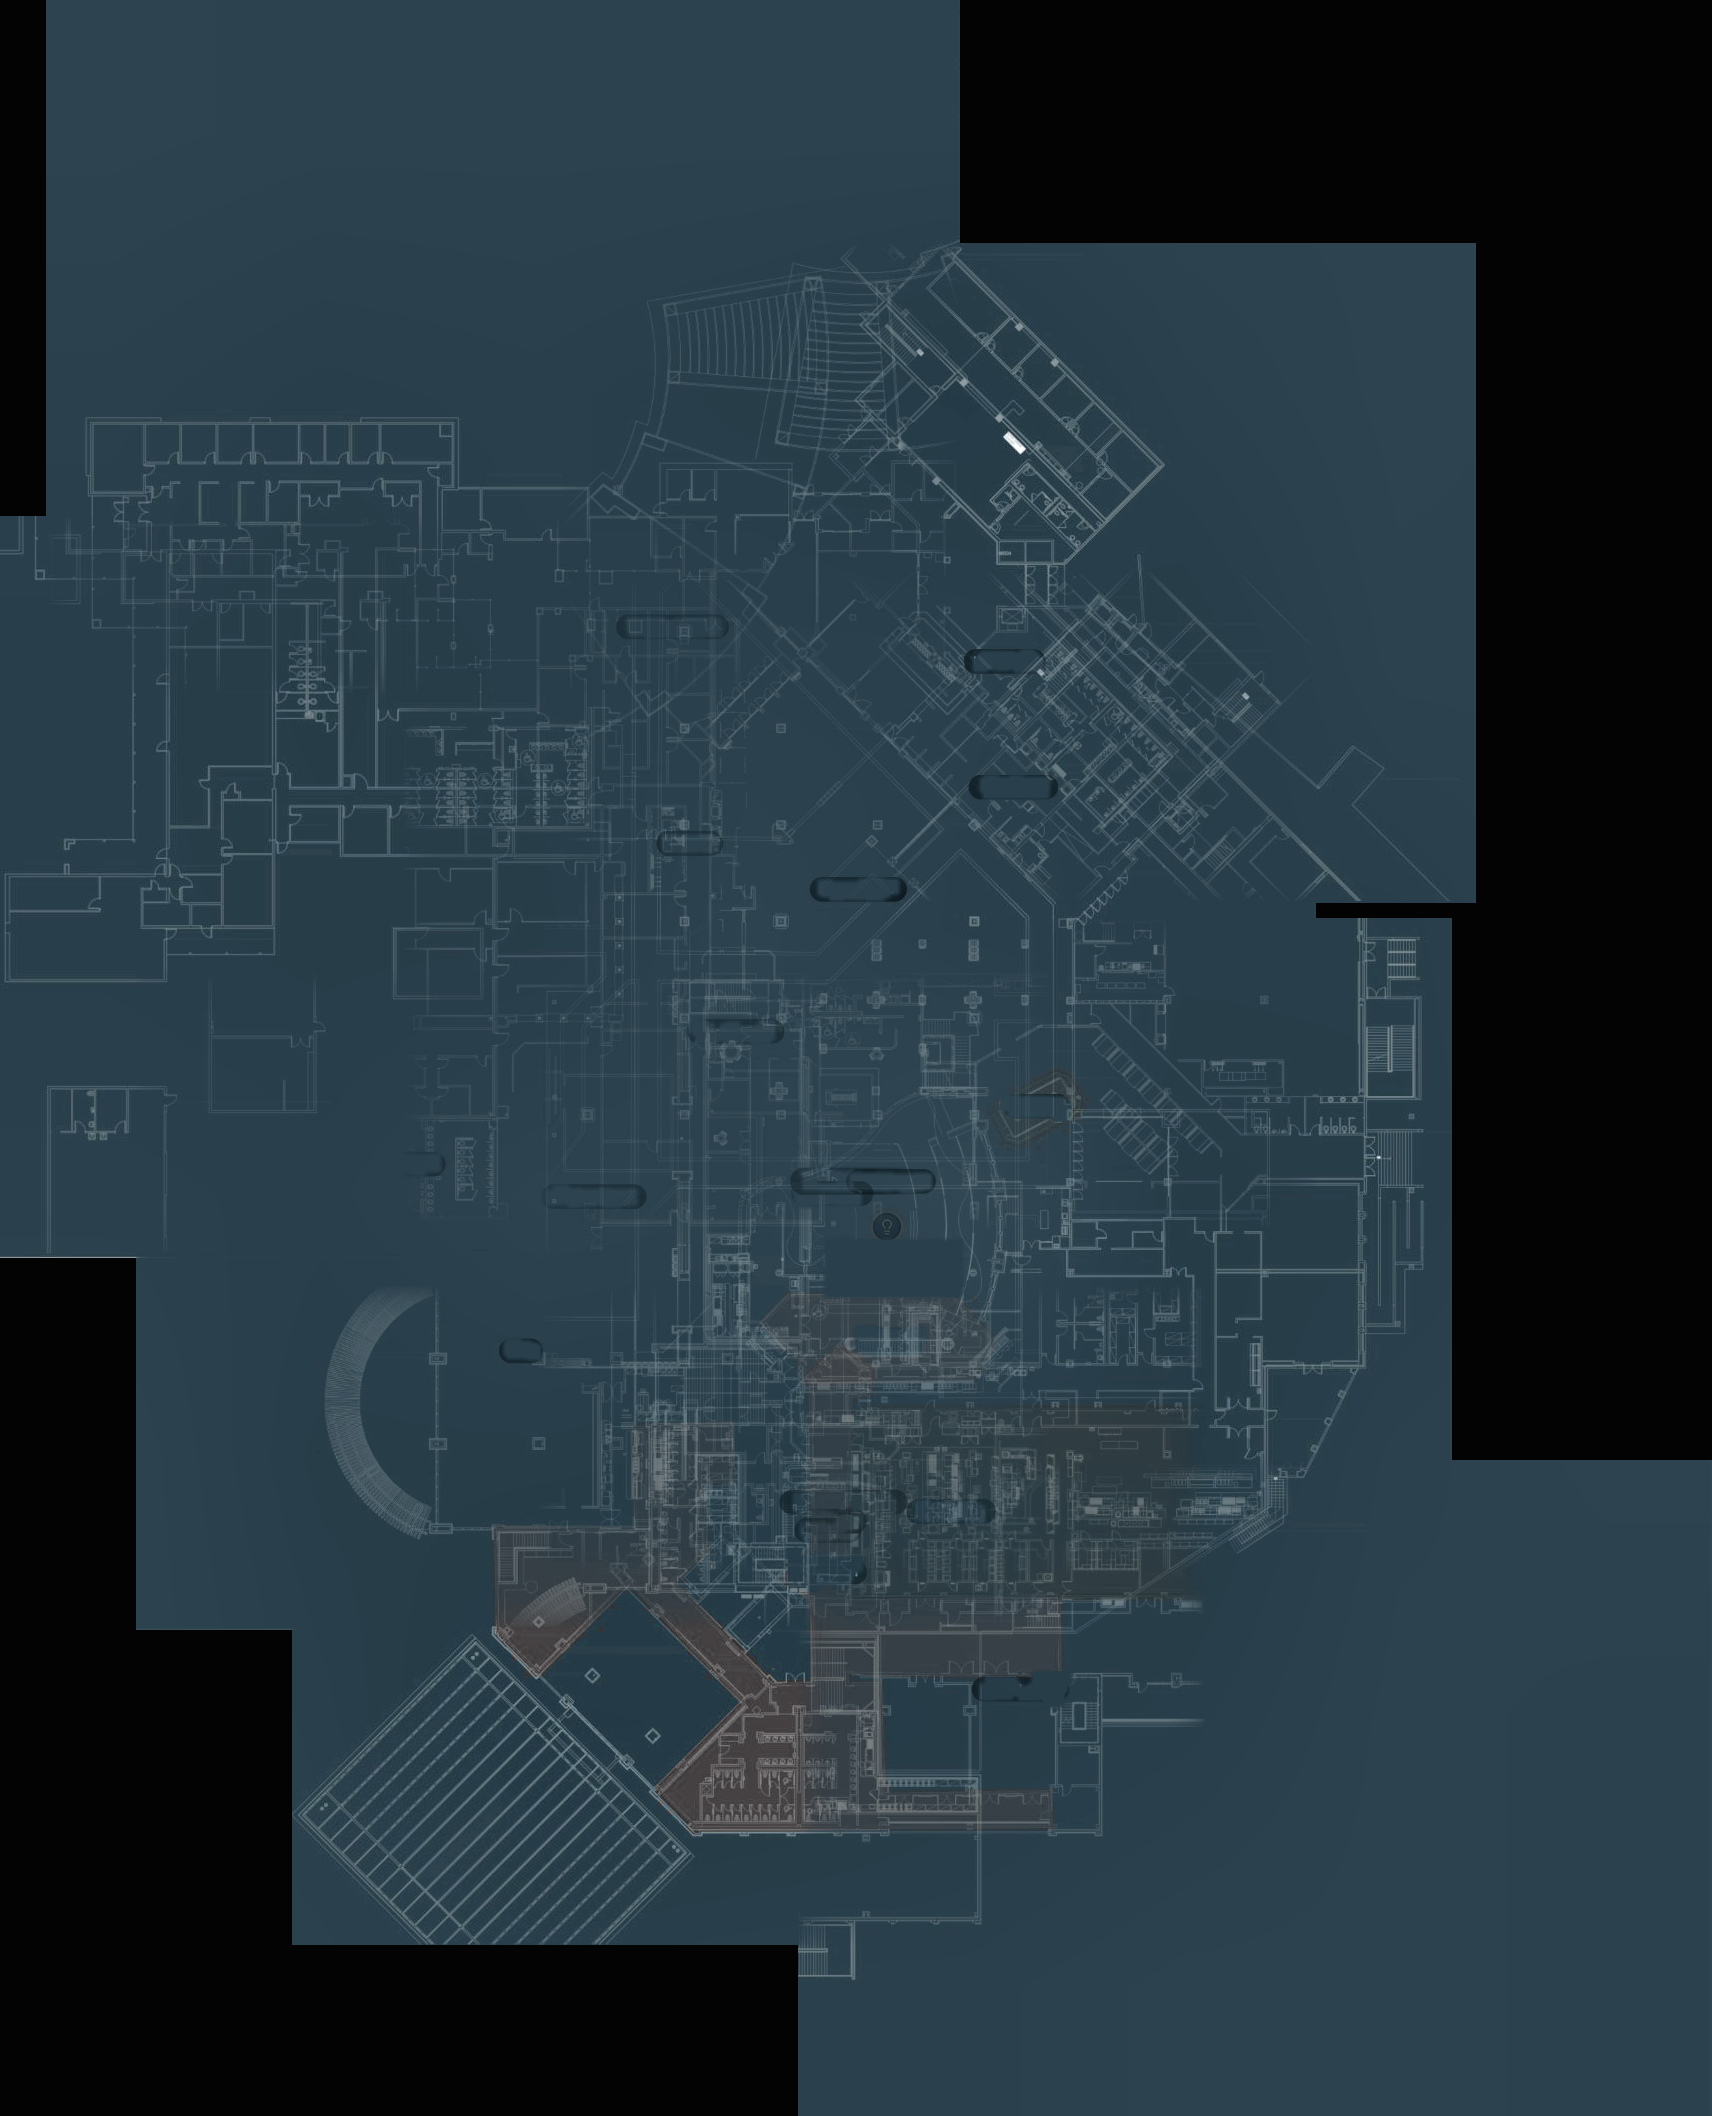
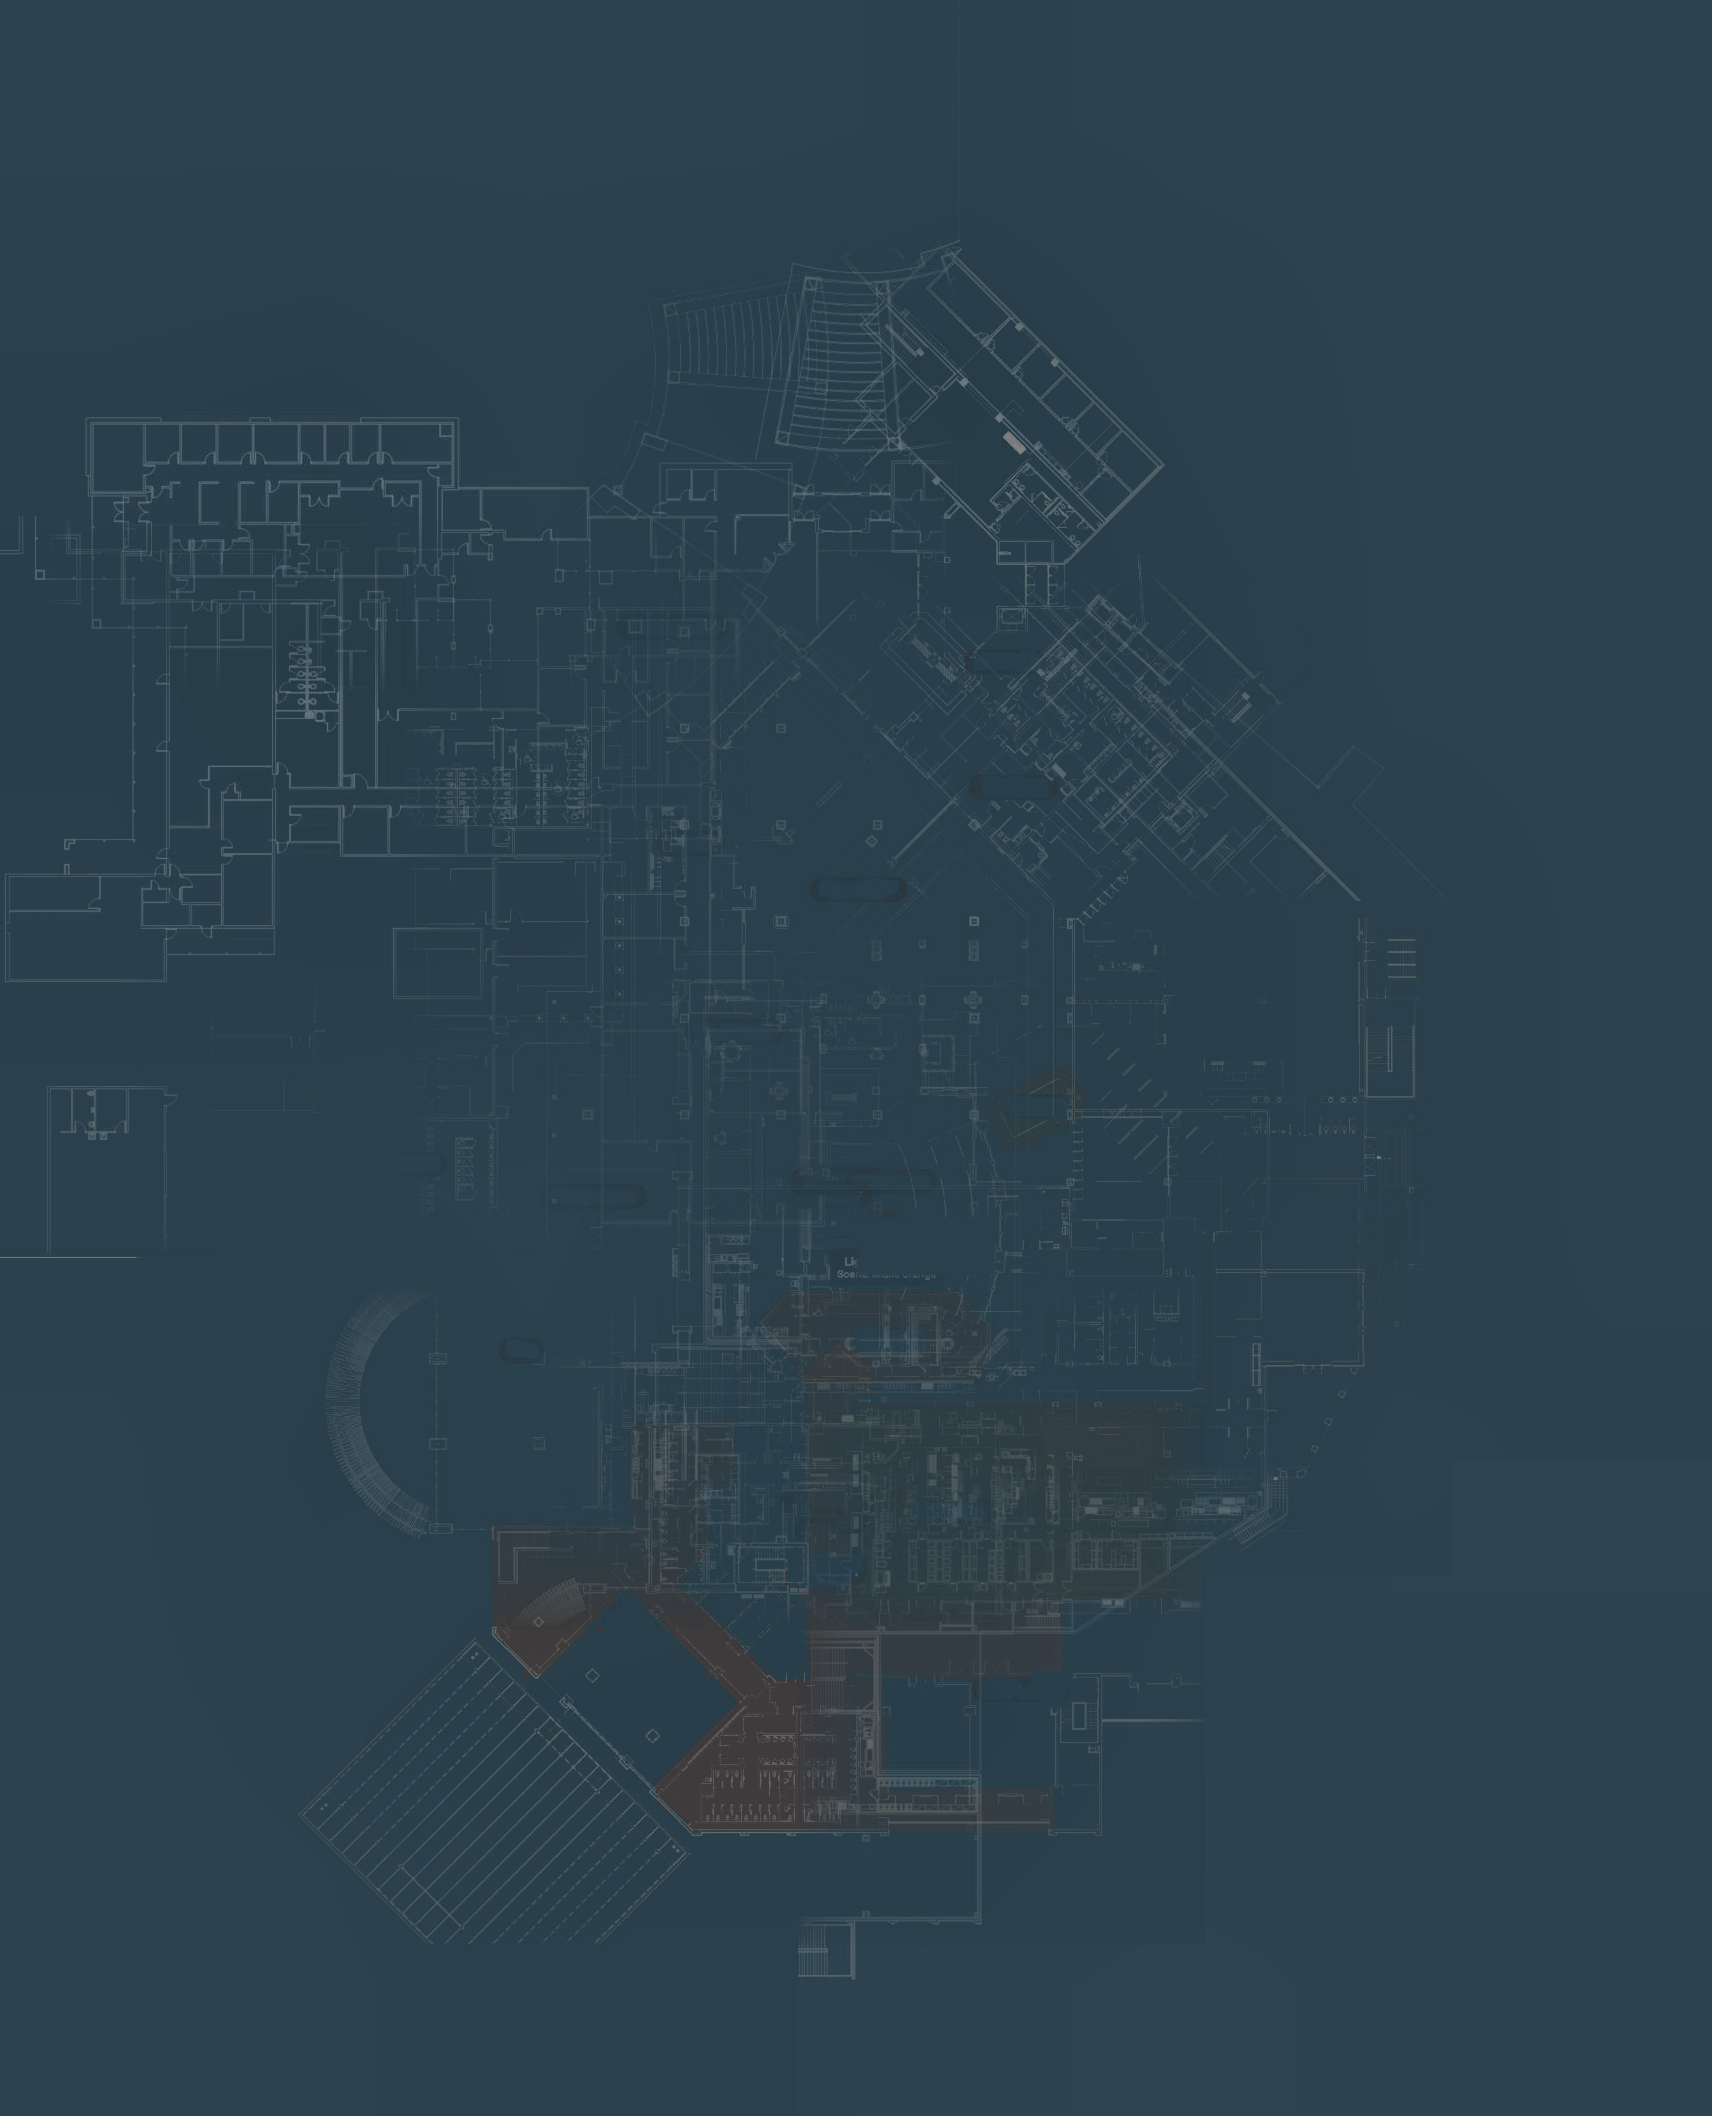
Property map: improve stitch quality with brightness norm + wide feather
Applied histogram-based brightness normalization across all 8 tiles to
equalize contrast differences, then widened the seam feather from 15px
to 60px to make tile boundaries gradual rather than hard cuts. Filled
gaps with background color. Seams are now subtle rather than prominent.

diff --git a/src/data/propertyMap.ts b/src/data/propertyMap.ts
@@ -4,7 +4,7 @@
  */
 
 export const propertyMap = {
-  src: '/images/floorplan-property.png?v=5',
+  src: '/images/floorplan-property.png?v=8',
   alt: 'Property-wide floorplan showing lobby, porte cochere, dining, convention, pool, and guest spaces LUCI orchestrates across the site',
 } as const;
 
